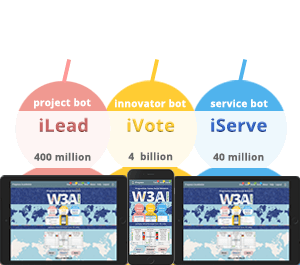
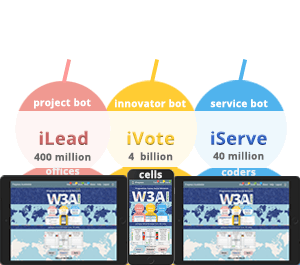
pushed the speed buttons up on top of screens

diff --git a/src/app/welcome/welcome.component.html b/src/app/welcome/welcome.component.html
@@ -98,24 +98,24 @@
   </div>
 
   <section class="speed">
-    <div fxLayout="row" xLayoutAlign="center center" fxLayoutGap="18px"  fxLayoutGap.gt-xs="24px">
+    <div fxLayout="row" xLayoutAlign="center center" fxLayoutGap="20px"  fxLayoutGap.gt-xs="24px">
       <div fxLayout="column" fxLayoutAlign="center center">
         <div>manual</div>
         <div><button class="W3AI-button" mat-button (click)="onSetManual(3000)"
             [ngStyle]="{color: getStatusButtonManual()}"><b><</b></button></div>
-        <div>control</div>
+        
       </div>
       <div fxLayout="column" fxLayoutAlign="center center">
           <div>autopilot</div>
         <div><button class="W3AI-button" mat-button (click)="onSetSprint(100)"
             [ngStyle]="{color: getStatusButtonMarathon()}"><b><<</b></button></div>
-        <div>control & speed</div>
+        
       </div>
       <div fxLayout="column" fxLayoutAlign="center center">
-        <div>innovate</div>
+        <div>innovation</div>
         <div><button class="W3AI-button" mat-button (click)="onSetRun(10)"
             [ngStyle]="{color: getStatusButtonHackathon()}"><b><<<</b></button></div>
-        <div>max speed</div>
+        
       </div>
     </div>
   </section>

diff --git a/src/app/welcome/welcome.component.ts b/src/app/welcome/welcome.component.ts
@@ -92,7 +92,10 @@ export class WelcomeComponent implements OnInit, AfterViewInit {
   sprint = true;
   run = false;
 
-  indigo = 'rgba(55,72,172,1)';  // Google mat indigo
+  bot_red = 'rgba(238,153,147,1)';  // Bot red
+  bot_yellow = 'rgba(254,203,69,1)';  // Bot yellow
+  bot_blue = 'rgba(85,180,235,1)';  // Bot blue
+
   setup = 'sprint'; // manual | sprint | run ;  previously it was manual | marathon | hackathon 
 
   aiSetup = 'Sprint';   // Marathon or Hackathon
@@ -249,15 +252,15 @@ export class WelcomeComponent implements OnInit, AfterViewInit {
   }
 
   getStatusButtonManual() {
-    return this.setup === 'manual' ? this.indigo : 'black';
+    return this.setup === 'manual' ? this.bot_red : 'whitesmoke';
   }
 
   getStatusButtonMarathon() {
-    return this.setup === 'sprint' ? this.indigo : 'black';
+    return this.setup === 'sprint' ? this.bot_yellow : 'whitesmoke';
   }
 
   getStatusButtonHackathon() {
-    return this.setup === 'run' ? this.indigo : 'black';
+    return this.setup === 'run' ? this.bot_blue : 'whitesmoke';
   }
 
   onSetManual(newCycle: number) {

diff --git a/src/app/welcome/welcome.component.css b/src/app/welcome/welcome.component.css
@@ -247,15 +247,20 @@ table {
 }
 
 .W3AI-button {
-    
+    position: relative;
+    top: -68px;
+    z-index: 30;
+    height: 36px !important;
+    min-width: 70px !important;
     font-family: arial, sans-serif;
-    font-size: small;
+    font-size: medium;
+    font-weight: bolder;
     color: whitesmoke;
     margin: 0px;
     padding: 0px;
     border: 0px;
-    background-color: rgba(217, 190, 190, 1);
-    border-radius: 8px;
+    background-color: rgba(117, 117, 117, 1);
+    border-radius: 16px;
 }
 
 .AUTO-button {
